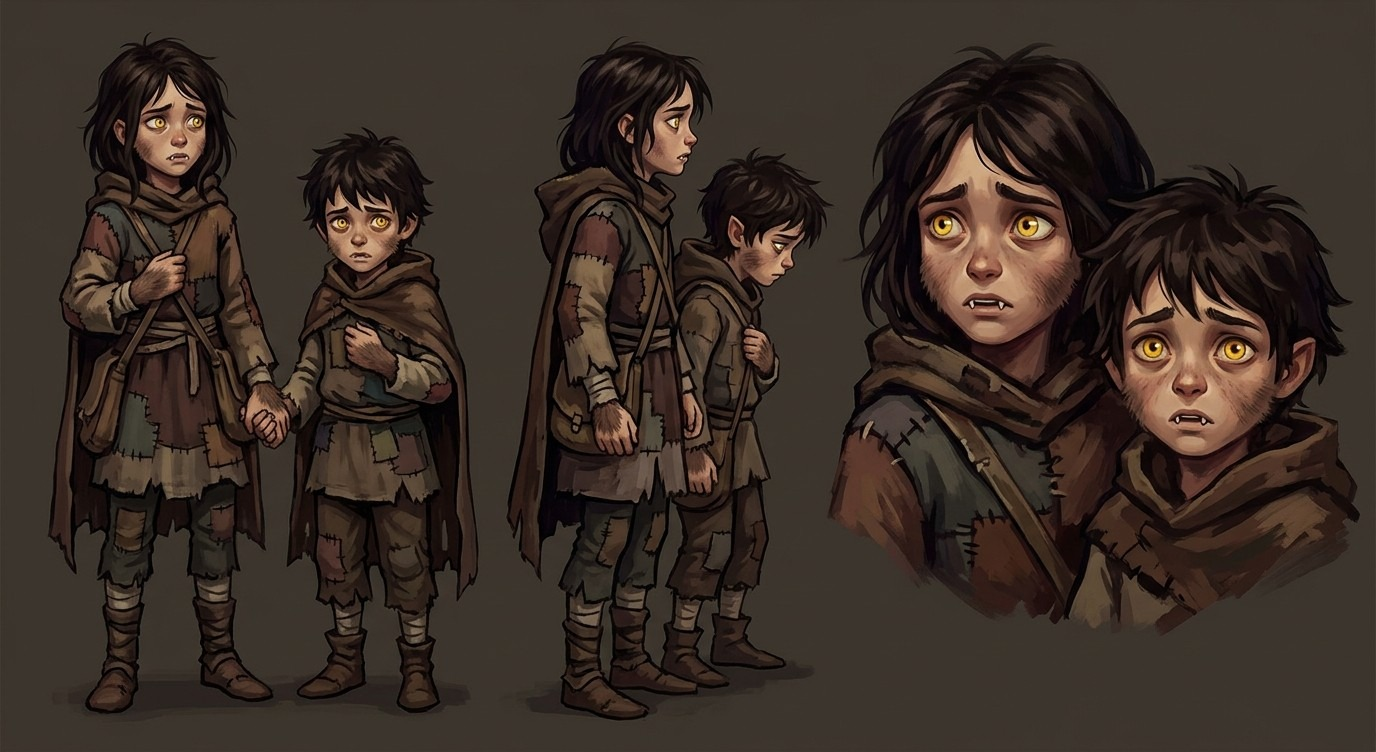
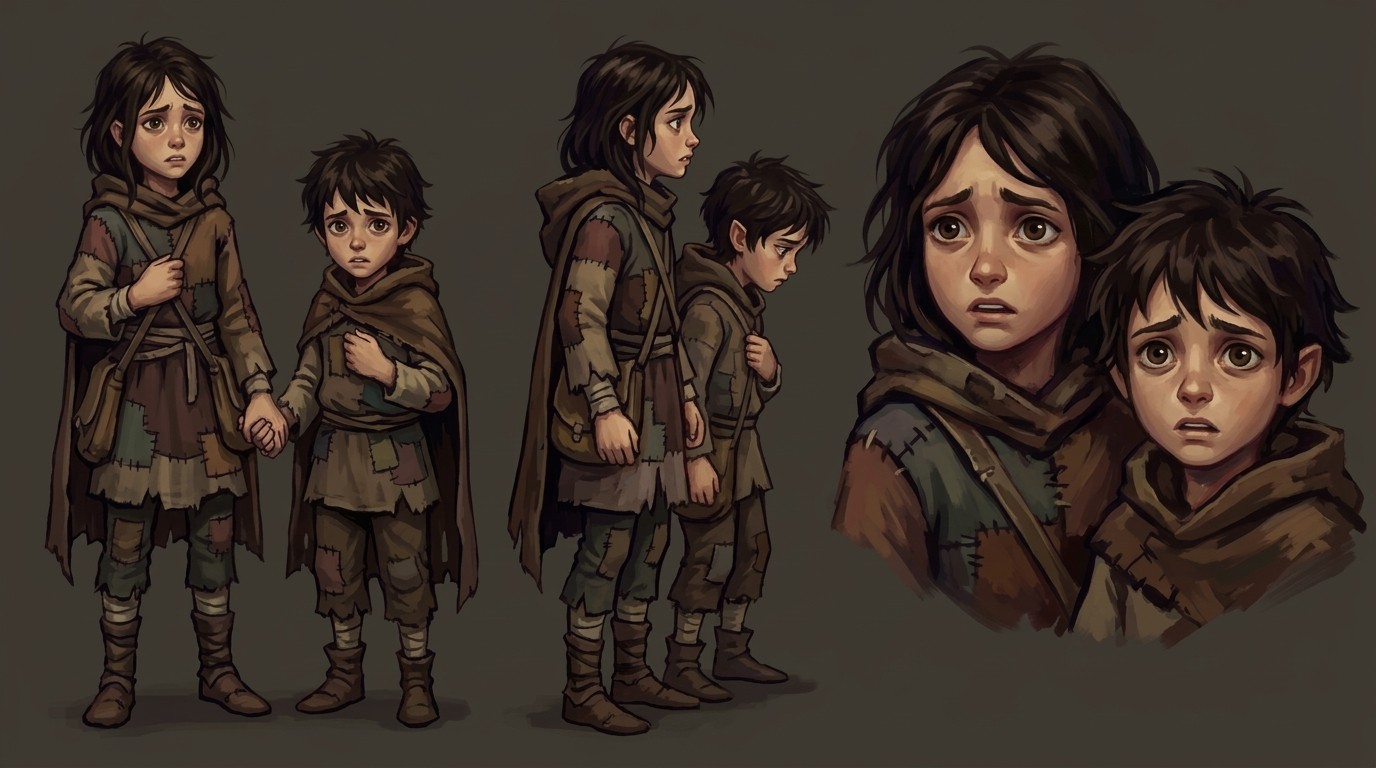
Chronicle level 2: the children never turned (chained to their beds in a rune-warded room, carried to the church in blankets); wife alone
Claude-Session: https://claude.ai/code/session_01ATYH57jnXnDsQfoAHnRMyx

diff --git a/chronicle/painted/make/02.py b/chronicle/painted/make/02.py
@@ -20,6 +20,7 @@ MEM="painted like a faded memory, soft haze, muted colours, "
 DOCK="behind a tavern on Norwich dock at night, a cold fog off the water, "
 SHACK="inside a dark dockside shack behind the tavern, one lantern, "
 BASE="in the stone basement under Mara's tavern, candlelight, "
+KROOM="in a small bare bedroom behind the tavern, glowing runes carved all around the door frame, two narrow beds, one lantern, "
 ROOM="in a sacked, rummaged room, furniture torn apart, black goo smeared on the walls, "
 S_=[
 (0,'black',[SE],['fog'],"A misty dark pine forest at night, far away between the trees a tall pale woman with silver-white hair, only a silhouette and two faint green eyes",{'grade':'green'}),
@@ -29,7 +30,7 @@ S_=[
 (22.4,'cut',[],['dust'],"Inside a crowded sickhouse, sick townsfolk on cots drinking from small glass vials, candlelight, relief on their faces",{}),
 (26.5,'cut',[],['fog'],"Close-up of a sick man's hand on a blanket, coarse dark fur starting to sprout at his wrist, his nails lengthening into claws",{'grade':'cold'}),
 (32.2,'fade',[],['fog'],DOCK+"a crooked shack in the alley, its door ajar, black water lapping at the pier, no people",{'grade':'cold'}),
-(36.5,'cut',[WI,K],['fog'],"Through a dirty window of a dark shack: a thin woman holding two small children close, their eyes glinting yellow in the dark",{'grade':'cold'}),
+(36.5,'cut',[WI],['fog'],"Through a dirty window of a dark dockside shack: a thin woman alone in the dark, hunched, her eyes glinting yellow",{'grade':'cold'}),
 (41.3,'cut',[L,WS],['dust'],BASE+LU+"kneeling before the chained werewolf Silas, one hand on his heart, making a promise",{'flicker':0.4}),
 (45.2,'cut',[WS],['dust'],BASE+"the werewolf Silas chained to the stone wall with heavy iron chains, head bowed, a single candle, quiet as a prayer",{'flicker':0.4}),
 (53.3,'cut',[L,M],['dust'],"In Mara's tavern, "+LU+"leaning over the bar persuading Mara, she has her arms crossed, unconvinced, then softening",{'flicker':0.3}),
@@ -50,21 +51,21 @@ S_=[
 (125.3,'cut',[L,A,C],['embers','sparks'],"The three brothers standing together inside a ring of dark purple flame, defiant",{'flicker':0.6}),
 (130.5,'fade',[A,C,L],['fog'],DOCK+"the three brothers creeping down the fog-bound alley toward the shack, Arthas first",{'grade':'cold'}),
 (137.2,'cut',[L],['dust'],SHACK+LU+"picking up an empty glass vial from the floor, recognising it, dread",{'flicker':0.3}),
-(141.8,'cut',[WI,K],['fog'],SHACK+"the wife and two children half-turned, crouched in the dark corner, fur and yellow eyes, fangs, the family changed",{'grade':'cold'}),
+(141.8,'cut',[WI],['fog'],SHACK+"Silas's wife alone, turned, crouched in the dark corner, fur and yellow eyes, fangs, the family changed",{'grade':'cold'}),
 (146.5,'flash',[A,WI],['dust','sparks'],SHACK+"Arthas blocking the lunging half-wolf wife with his steel arm, furniture flying",{'shake':0.5}),
 (150.7,'cut',[L,WI],['dust'],SHACK+"the half-wolf wife's teeth sinking into "+LU+"'s neck from behind, his face twisted in pain, leave the blood to imagination",{'shake':0.4,'grade':'red'}),
 (155.5,'cut',[L],['sparks'],LU+"suddenly floating in a white, cold, silent astral void, stars and drifting stone, alone",{'grade':'cold'}),
 (160.2,'cut',[L],['fog'],"Close-up of "+LU+"with his eyes shut, a thin curl of dark mist winding into his ear, whispering",{'grade':'cold'}),
 (164.5,'cut',[],['fog'],"In swirling dark mist, two huge yellow wolf eyes and the faint shape of a wolf muzzle, ominous, absolutely no letters, words or text anywhere",{'grade':'cold'}),
 (169.2,'cut',[L],['sparks'],"Close-up of Lucien's dagger in his hand humming, its blue glow flickering darker, a faint shadow curling around the blade",{}),
-(174.6,'fade',[K],['fog'],SHACK+"two small children tied with rope in a corner, half-turned, frightened yellow eyes, small fangs, still children",{'grade':'cold'}),
-(178.7,'cut',[L],['fog'],SHACK+LU+"kneeling alone in the frame with one hand raised, begging the others to wait, no one else visible",{}),
-(183.6,'cut',[C],['dust'],SHACK+"Cedric stepping past with his staff swinging, his face cold, the children out of frame in shadow",{'shake':0.3}),
-(187.6,'cut',[A,L],['dust'],SHACK+"Arthas striding past "+LU+"without looking at him, not waiting, not hearing",{}),
-(192.4,'cut',[K],['dust'],SHACK+"the two children lying still and unconscious on the floor, still tied, only the lantern light",{}),
-(196.8,'cut',[L],['dust'],SHACK+LU+"standing with empty hands, appalled, staring, the lantern swinging",{}),
+(174.6,'fade',[K],['fog'],KROOM+"two small ordinary human children chained to their beds by the ankles, alone, frightened, wide normal eyes, not turned",{'grade':'cold'}),
+(178.7,'cut',[L],['fog'],KROOM+LU+"kneeling alone in the frame with one hand raised, begging the others to wait, no one else visible",{}),
+(183.6,'cut',[C],['dust'],KROOM+"Cedric stepping toward the beds with his staff swinging, his face cold, the children out of frame in shadow",{'shake':0.3}),
+(187.6,'cut',[A,L],['dust'],KROOM+"Arthas striding past "+LU+"without looking at him, not waiting, not hearing",{}),
+(192.4,'cut',[K],['dust'],KROOM+"the two children lying still and unconscious on their beds, still chained by the ankles, only the lantern light",{}),
+(196.8,'cut',[L],['dust'],KROOM+LU+"standing with empty hands, appalled, staring, the lantern swinging",{}),
 (201.3,'fade',[],['fireflies','fog'],"A sacred Moonwell deep in the forest, a pool of glowing silver water among white stones, druids in green robes in the distance",{'grade':'green'}),
-(205.8,'cut',[L],['fog'],DOCK+LU+"alone on the pier looking out into the dark, uncertain",{'grade':'cold'}),
+(205.8,'fade',[L,A,C],['fog'],"The three brothers carrying the two unconscious children wrapped in blankets through the dark streets at night toward a church with lit windows, "+LU+"Arthas and Cedric, grim and silent",{'grade':'cold'}),
 (212.8,'flash',[],[],None,{'img':'s21'}),
 (217.6,'cut',[],[],None,{'img':'s22'}),
 (222.2,'cut',[],[],None,{'img':'s23'}),
@@ -107,7 +108,7 @@ cast={'lucien':L12['cast']['lucien'],'arthas':L12['cast']['arthas'],'cedric':L12
  'assassin':L10['cast']['assassin'],'guard':L10['cast']['guard'],'severin':L6['cast']['severin'],'silas':L1['cast']['silas'],
  'wolfsilas':"Silas the werewolf, exactly as in the reference painting: the lean dock smuggler turned, a full wolf snout and fangs, coarse dark brown fur, wild glowing yellow eyes, clawed hands, his drab grey-olive patched coat torn to rags; frightening, not comical",
  'wife':"Silas's wife, half-turned werewolf: a thin poor dockside woman in her thirties in a ragged grey dress and shawl, dark tangled hair, her face stretching toward a wolf snout with fangs, coarse fur on her arms and neck, clawed hands, glowing yellow eyes, wild and frightening",
- 'kids':"Silas's two small children, a boy and a girl about seven and nine, thin and poor in patched clothes, dark hair, half-turned: small fangs, a little fur on their cheeks and hands, glowing yellow eyes, frightened, still children"}
+ 'kids':"Silas's two small children, a boy and a girl about seven and nine, thin and poor in patched clothes, dark hair, ordinary human children with normal brown eyes, no fangs, no fur, frightened"}
 board={"id":"finding-silas","live":False,'cover':'s21','style':L12['style'],'cast':cast,'shots':shots}
 head_={k:v for k,v in board.items() if k!='shots'}
 out=json.dumps(head_,ensure_ascii=False,indent=2)[:-2]+',\n  "shots": [\n'+',\n'.join('    '+json.dumps(s,ensure_ascii=False) for s in shots)+'\n  ]\n}\n'
